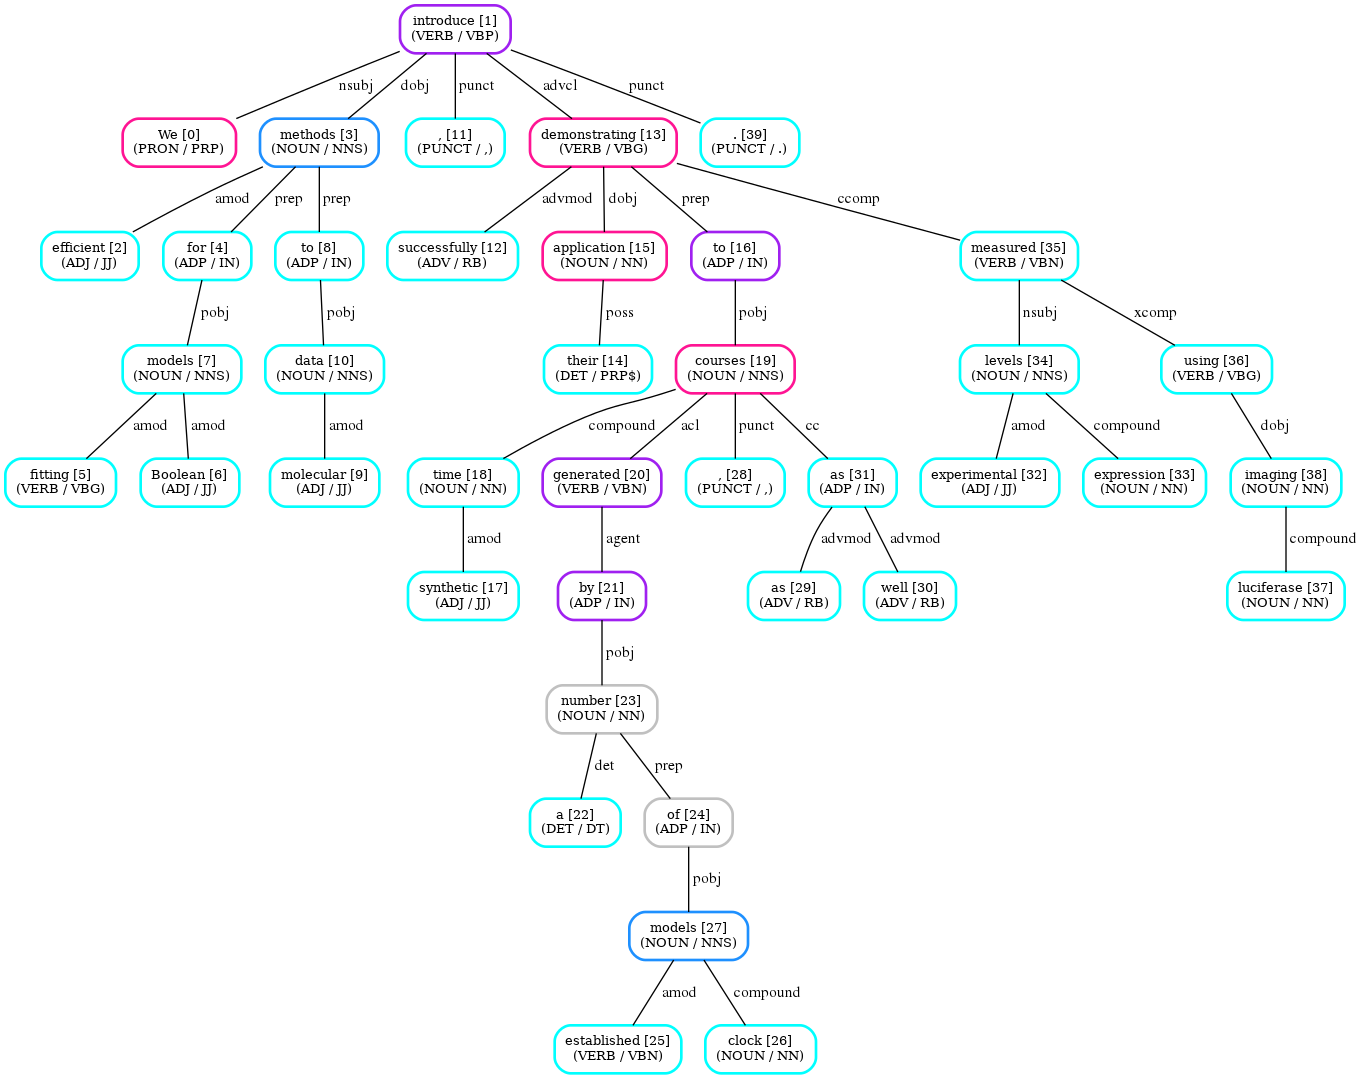
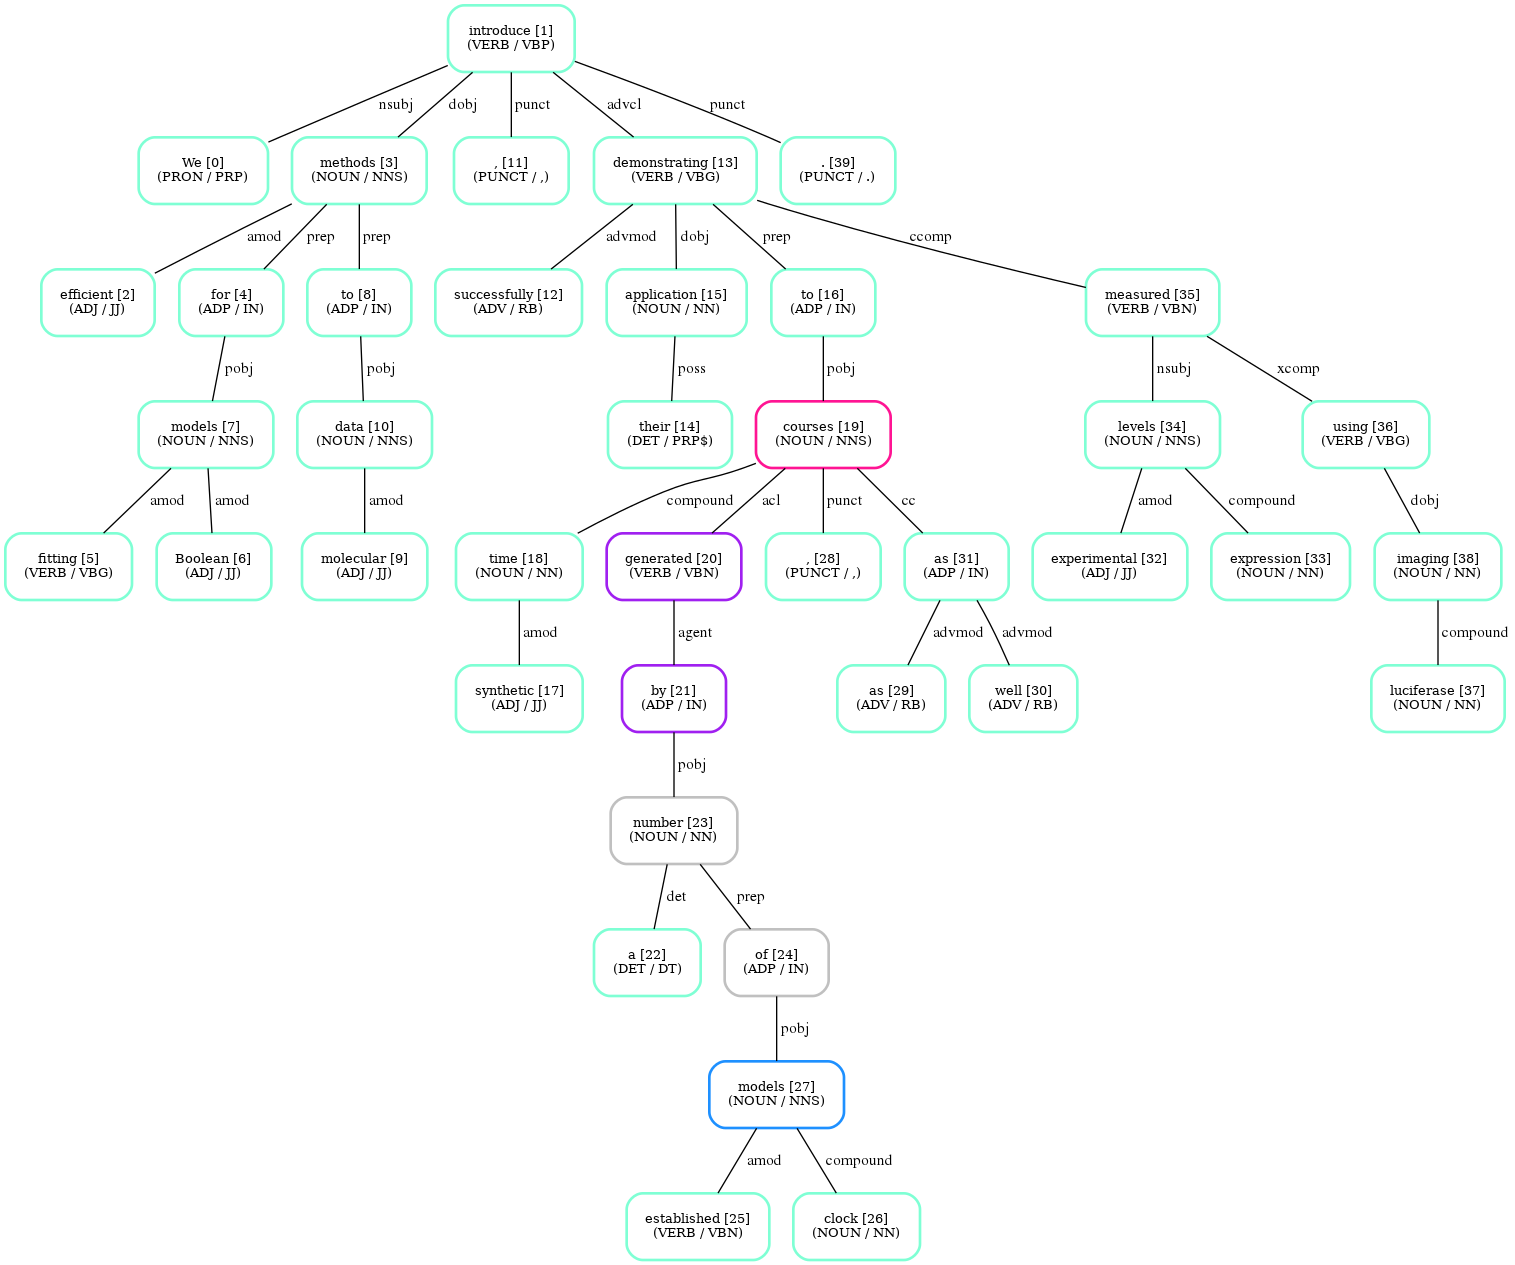
Modify visualisation styles and fix token equality bug

Changed region(s): [[0.0, 0.0, 1.0, 1.0], [0.5855, 0.1835, 0.6779, 0.2141]]

diff --git a/role_pattern_nlp/role_pattern_vis.py b/role_pattern_nlp/role_pattern_vis.py
@@ -13,10 +13,12 @@ ROLE_COLOURS = [
     'deeppink1',
     'purple',
     'dodgerblue',
-    # 'cyan',
+    'cyan',
 ]
 
 NULL_COLOUR = 'grey'
+
+DEFAULT_COLOUR = 'aquamarine'
 
 DEFAULT_STYLE_ATTRS = {
     'fontname': 'palatino',
@@ -30,10 +32,11 @@ DEFAULT_SUBGRAPH_ATTRS = {
 }
 
 DEFAULT_NODE_ATTRS = {
-    'color': 'cyan',
+    'color': DEFAULT_COLOUR,
     'shape': 'box',
     'style': 'rounded',
     'penwidth': 2,
+    'margin': 0.2,
 }
 
 LEGEND_ATTRS = {
@@ -63,18 +66,20 @@ def assign_role_colours(graph, token_labels, label2colour):
 def create_legend(label2colour):
     legend = pydot.Dot(graph_type='graph', **DEFAULT_STYLE_ATTRS)
     legend_cluster = pydot.Subgraph(graph_name='cluster_legend', **DEFAULT_STYLE_ATTRS, **LEGEND_ATTRS)
-    legend_cluster.set_label('Role labels')
+    # legend_cluster.set_label('Role labels')
     rows = []
     for label, colour in label2colour.items():
         row = '<td>{0}</td><td bgcolor="{1}" width="30"></td>'.format(label, colour)
         row = '<tr>{}</tr>'.format(row)
         rows.append(row)
-    row = '<tr><td>No label</td><td bgcolor="{}" width="30"></td></tr>'.format(NULL_COLOUR)
+    row = '<tr><td>Null</td><td bgcolor="{}" width="30"></td></tr>'.format(NULL_COLOUR)
+    rows.append(row)
+    row = '<tr><td width="80">No label</td><td bgcolor="{}" width="30"></td></tr>'.format(DEFAULT_COLOUR)
     rows.append(row)
     table = '<table border="0" cellborder="1" cellspacing="0" cellpadding="4">{}</table>'.format('\n'.join(rows))
     table = '<font face="{0}" size="{1}">{2}</font>'.format(
         DEFAULT_STYLE_ATTRS['fontname'],
-        DEFAULT_STYLE_ATTRS['fontsize'],
+        DEFAULT_STYLE_ATTRS['fontsize'] - 2,
         table,
     )
     html = '<{}>'.format(table)
@@ -84,7 +89,7 @@ def create_legend(label2colour):
     return legend
 
 
-def get_nodes_with_label(nodes, labels, with_label):
+def nodes_with_label(nodes, labels, with_label):
     nodes_with_label = []
     for node, label in zip(nodes, labels):
         if label == with_label:
@@ -94,17 +99,17 @@ def get_nodes_with_label(nodes, labels, with_label):
 
 def add_role_label_clusters(graph, labels):
     new_graph = pydot.Dot(graph_type='graph', **DEFAULT_STYLE_ATTRS)
-    nodes = graph.get_nodes()
+    all_nodes = graph.get_nodes()
     for label in util.unique_list(labels):
-        nodes_with_label = get_nodes_with_label(nodes, labels, label)
+        nodes = nodes_with_label(all_nodes, labels, label)
         if not label:
-            for node in nodes_with_label:
+            for node in nodes:
                 new_graph.add_node(node)
         else:
             subgraph_name = 'cluster_' + label
             subgraph = pydot.Subgraph(graph_name=subgraph_name, **DEFAULT_SUBGRAPH_ATTRS)
             subgraph.set_label(label)
-            for node in nodes_with_label:
+            for node in nodes:
                 subgraph.add_node(node)
             new_graph.add_subgraph(subgraph)
     for edge in graph.get_edges():
@@ -135,19 +140,18 @@ def match_to_pydot(match, label2colour={}, legend=False):
         label2colour = get_label_colour_dict(labels)
     doc = util.doc_from_match(match)
     try:
-        Token.set_extension('plot', default={})
+        Token.set_extension('plot', default=DEFAULT_NODE_ATTRS)
     except:
         pass
     for token in doc:
-        colour = None
+        colour = DEFAULT_COLOUR
         for match_token in match.match_tokens:
-            if match_token == token:
+            if match_token.i == token.i:
                 colour = NULL_COLOUR
             for label, labelled_tokens in match.items():
                 if token in labelled_tokens:
                     colour = label2colour[label]
-        if colour:
-            token._.plot = {'color': colour}
+        token._.plot['color'] = colour
     graph = visualise_spacy_tree.to_pydot(doc)
     if legend:
         legend = create_legend(label2colour)

diff --git a/setup.py b/setup.py
@@ -8,7 +8,7 @@ with open("requirements.txt") as fh:
 
 setuptools.setup(
     name="role-pattern-nlp",
-    version="0.0.5",
+    version="0.0.6",
     author="Nicholas Morley",
     author_email="nick.morley111@gmail.com",
     description=" Build and match patterns for semantic role labelling",
